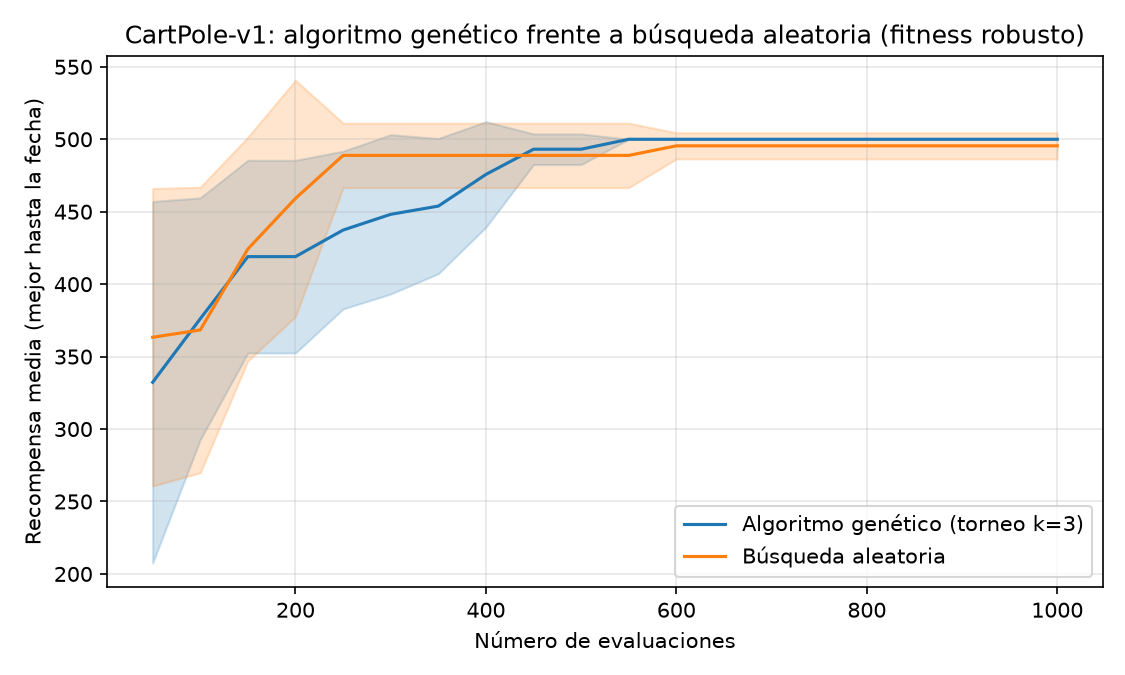
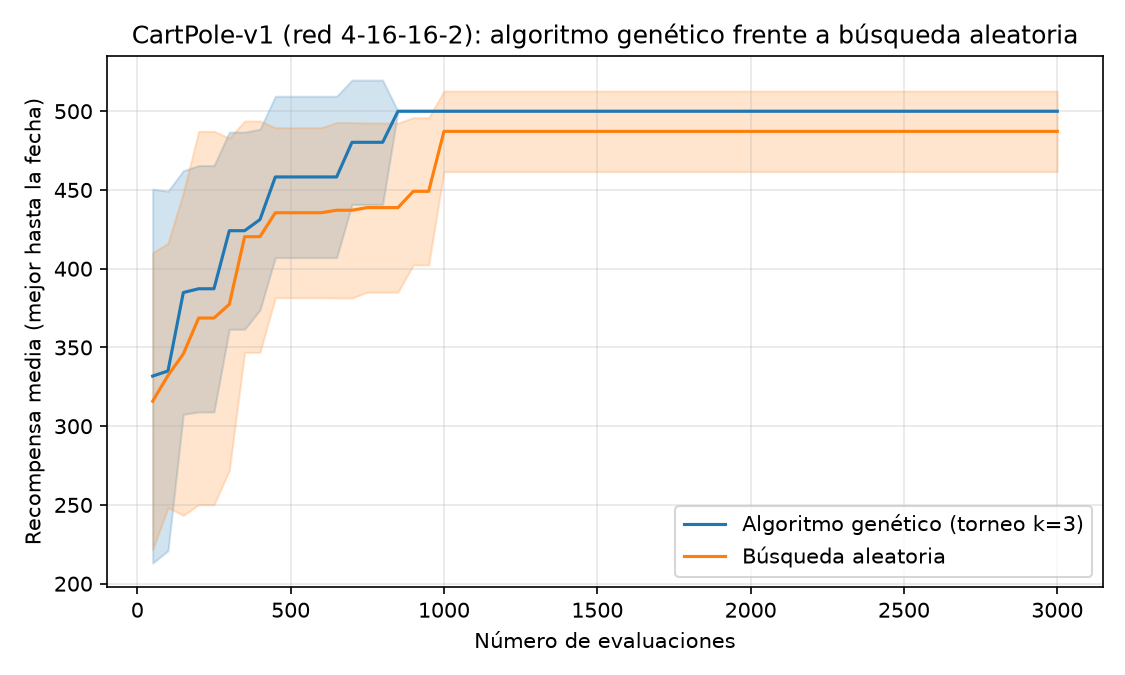
feat: switch phase 1 check to harder 4-16-16-2 network

diff --git a/experiments/phase1_check.py b/experiments/phase1_check.py
@@ -8,15 +8,16 @@ import numpy as np
 
 matplotlib.use("Agg")
 
-from src.environments.cartpole_eval import CARTPOLE_ARCHITECTURE, evaluate_chromosome
+from src.environments.cartpole_eval import evaluate_chromosome
 from src.genetic.engine import EvolutionResult, run_genetic_algorithm
 from src.genetic.operators import gaussian_mutation, one_point_crossover
 from src.genetic.random_search import run_random_search
 from src.genetic.selection import tournament_selection
 from src.networks.numpy_mlp import random_chromosome
 
+EXPERIMENT_ARCHITECTURE: tuple[int, ...] = (4, 16, 16, 2)
 POPULATION_SIZE = 50
-MAX_EVALUATIONS = 1000
+MAX_EVALUATIONS = 3000
 EPISODES_PER_EVALUATION = 3
 TARGET_FITNESS = 500.0
 SEED_OFFSET = 10_000
@@ -25,8 +26,8 @@ FIGURE_PATH = Path(__file__).resolve().parents[1] / "results" / "figures" / "pha
 
 
 def init_chromosome(rng: np.random.Generator) -> np.ndarray:
-    """Samples one random network chromosome for the CartPole architecture."""
-    return random_chromosome(CARTPOLE_ARCHITECTURE, rng)
+    """Samples one random network chromosome for the experiment architecture."""
+    return random_chromosome(EXPERIMENT_ARCHITECTURE, rng)
 
 
 def make_fitness(run_seed: int) -> object:
@@ -36,7 +37,12 @@ def make_fitness(run_seed: int) -> object:
     def fitness(chromosome: np.ndarray) -> float:
         """Evaluates one chromosome on CartPole with newly drawn initial conditions."""
         seed = int(evaluation_rng.integers(1_000_000))
-        return evaluate_chromosome(chromosome, episodes=EPISODES_PER_EVALUATION, seed=seed)
+        return evaluate_chromosome(
+            chromosome,
+            architecture=EXPERIMENT_ARCHITECTURE,
+            episodes=EPISODES_PER_EVALUATION,
+            seed=seed,
+        )
 
     return fitness
 
@@ -96,7 +102,7 @@ def plot_convergence(genetic_curves: np.ndarray, random_curves: np.ndarray) -> N
         axis.fill_between(evaluations, mean_curve - std_curve, mean_curve + std_curve, color=color, alpha=0.2)
     axis.set_xlabel("Número de evaluaciones")
     axis.set_ylabel("Recompensa media (mejor hasta la fecha)")
-    axis.set_title("CartPole-v1: algoritmo genético frente a búsqueda aleatoria (fitness robusto)")
+    axis.set_title("CartPole-v1 (red 4-16-16-2): algoritmo genético frente a búsqueda aleatoria")
     axis.legend()
     axis.grid(alpha=0.3)
     figure.tight_layout()
